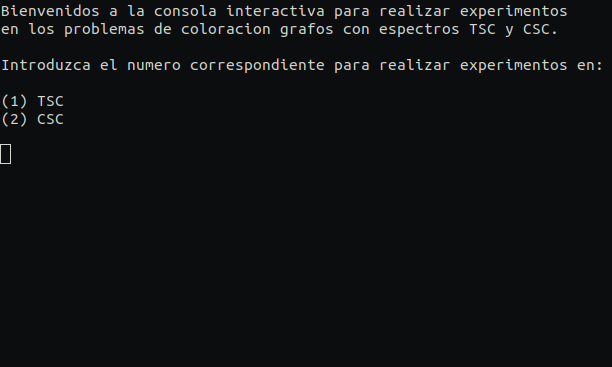
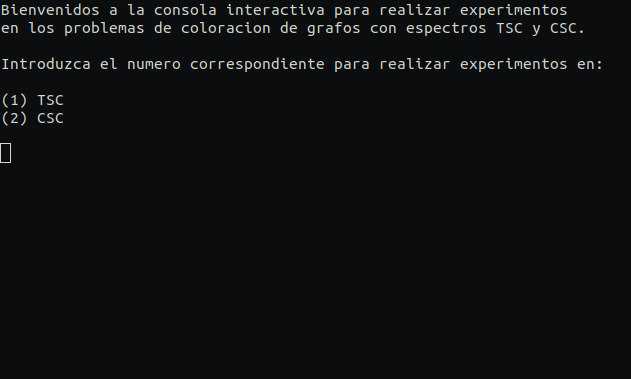
Arreglar error en la imagen del README

Changed region(s): [[0.0, 0.0, 0.9314, 0.1199], [0.0, 0.1499, 0.9935, 0.2098], [0.0, 0.2398, 0.1242, 0.4496]]

diff --git a/iconsole.py b/iconsole.py
@@ -1,4 +1,4 @@
-""" Consola interactiva util y sencilla consola que permite experimentar con los problemas de coloracion grafos con espectros TSC y CSC.
+""" Consola interactiva util y sencilla consola que permite experimentar con los problemas de coloracion de grafos con espectros TSC y CSC.
 """
 
 import os
@@ -23,7 +23,7 @@ from tests import tsc_test, csc_test, tsc_test_for_random_graph, csc_test_for_ra
 
 while True:
     clear()
-    print('Bienvenidos a la consola interactiva para realizar experimentos\nen los problemas de coloracion grafos con espectros TSC y CSC.\n')
+    print('Bienvenidos a la consola interactiva para realizar experimentos\nen los problemas de coloracion de grafos con espectros TSC y CSC.\n')
     print('Introduzca el numero correspondiente para realizar experimentos en:\n \n(1) TSC \n(2) CSC\n')
 
     text = input()

diff --git a/README.md b/README.md
@@ -1,8 +1,8 @@
 # Spectrum Graph Coloring
 
-``PySGColoring`` es un libreria en Python que brinda herramientas para resolver los problemas de coloracion grafos con espectros TSC y CSC.
+``PySGColoring`` es un libreria en Python que brinda herramientas para resolver los problemas de coloracion de grafos con espectros TSC y CSC.
 
-``iconsole`` es una util y sencilla consola interactiva que permite experimentar con los problemas de coloracion grafos con espectros TSC y CSC.
+``iconsole`` es una util y sencilla consola interactiva que permite experimentar con los problemas de coloracion de grafos con espectros TSC y CSC.
 
 ## Instalacion
 
